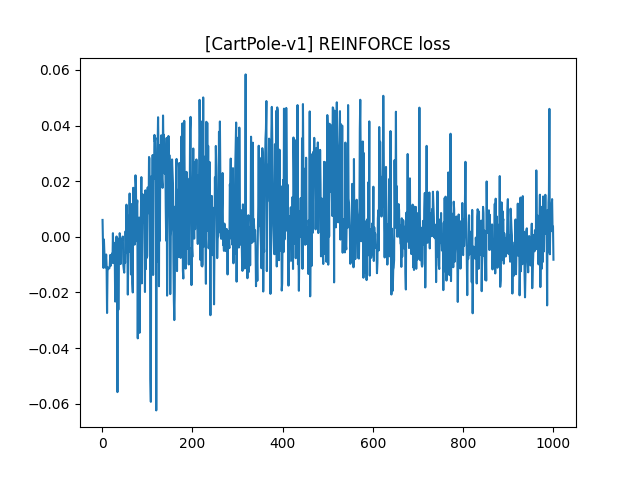
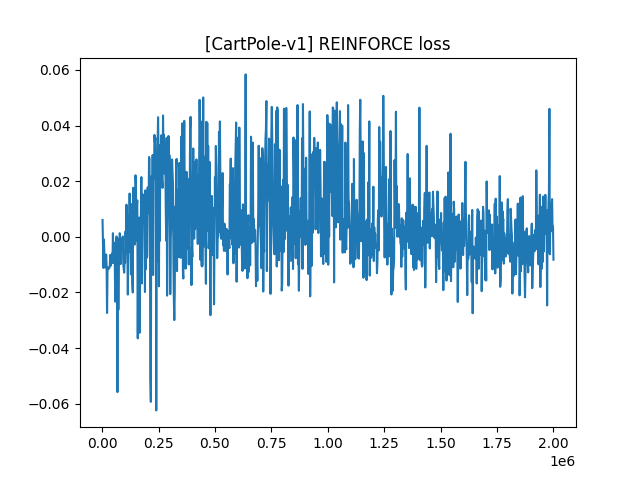
add step counts to charts

diff --git a/algos/reinforce.py b/algos/reinforce.py
@@ -208,18 +208,14 @@ for u in range(int(NUM_UPDATES / BATCH_COUNT)):
 
 # Plot rewards and losses
 
+step_counts = [u * ROLLOUT_LEN for u in range(1, NUM_UPDATES + 1)]
+
 reward_figure, reward_axes = plt.subplots()
-reward_axes.plot(
-    list(range(1, len(average_rewards) + 1)),
-    average_rewards,
-)
+reward_axes.plot(step_counts, average_rewards)
 reward_axes.set_title(f"[{ENV}] REINFORCE average reward")
 reward_figure.savefig(f"./charts/reinforce/{ENV_KEY}_reward.png")
 
 loss_figure, loss_axes = plt.subplots()
-loss_axes.plot(
-    list(range(1, len(losses) + 1)),
-    losses,
-)
+loss_axes.plot(step_counts, losses)
 loss_axes.set_title(f"[{ENV}] REINFORCE loss")
 loss_figure.savefig(f"./charts/reinforce/{ENV_KEY}_loss.png")
